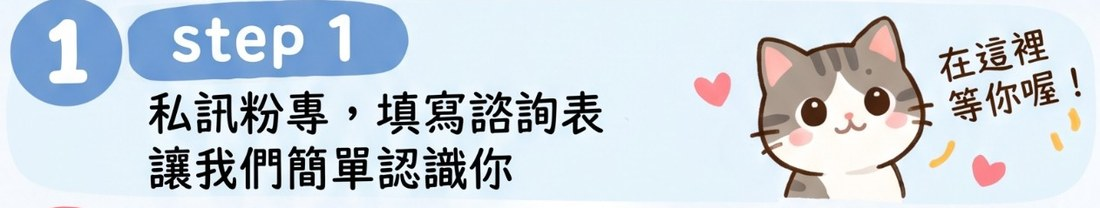
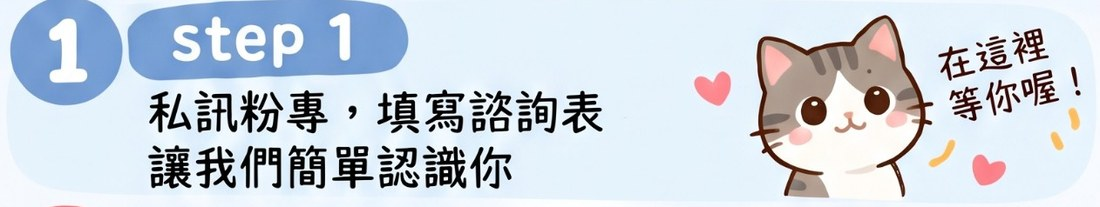
認養流程換上修正後的設計稿
step 1~4 由修正版設計稿切出（step 4「無虞」已更正），
step 5 改用單獨重做的那一條，文字不再被貓咪壓到。

切圖的間隙偵測加上最小寬度限制：卡片中間偶有幾列雜訊會被
誤判成間隙，把第一條切成兩半而遺漏，真正的間隙都有 20 列以上。

diff --git a/adopt.html b/adopt.html
@@ -64,11 +64,11 @@
     <!-- 五個步驟用設計稿的原圖。圖裡的文字搜尋引擎讀不到，所以寫進 alt。
          要改文字就得重做圖，設計稿原檔在「設計稿/認養流程_設計稿_v2.jpg」。 -->
     <ol class="flow">
-      <li><a href="images/step-1.jpg" target="_blank" rel="noopener"><img src="images/step-1.jpg" alt="step 1：私訊粉專，填寫諮詢表，讓我們簡單認識你" width="1100" height="208"></a></li>
-      <li><a href="images/step-2.jpg" target="_blank" rel="noopener"><img src="images/step-2.jpg" alt="step 2：確認收到粉專回覆後，方可預約賞貓時間" width="1100" height="215" loading="lazy"></a></li>
+      <li><a href="images/step-1.jpg" target="_blank" rel="noopener"><img src="images/step-1.jpg" alt="step 1：私訊粉專，填寫諮詢表，讓我們簡單認識你" width="1100" height="207"></a></li>
+      <li><a href="images/step-2.jpg" target="_blank" rel="noopener"><img src="images/step-2.jpg" alt="step 2：確認收到粉專回覆後，方可預約賞貓時間" width="1100" height="222" loading="lazy"></a></li>
       <li><a href="images/step-3.jpg" target="_blank" rel="noopener"><img src="images/step-3.jpg" alt="step 3：若有確認想養的貓孩，請務必配合家訪" width="1100" height="235" loading="lazy"></a></li>
       <li><a href="images/step-4.jpg" target="_blank" rel="noopener"><img src="images/step-4.jpg" alt="step 4：確認認養環境無虞後，預約帶回貓孩的時間" width="1100" height="202" loading="lazy"></a></li>
-      <li><a href="images/step-5.jpg" target="_blank" rel="noopener"><img src="images/step-5.jpg" alt="step 5：帶貓當天請攜帶身份證件並加入認養夥伴群組" width="1100" height="206" loading="lazy"></a></li>
+      <li><a href="images/step-5.jpg" target="_blank" rel="noopener"><img src="images/step-5.jpg" alt="step 5：帶貓當天請攜帶身分證件並加入認養夥伴群組" width="1100" height="180" loading="lazy"></a></li>
     </ol>
     <p class="flow-tip">圖片點一下可以放大看</p>
 
